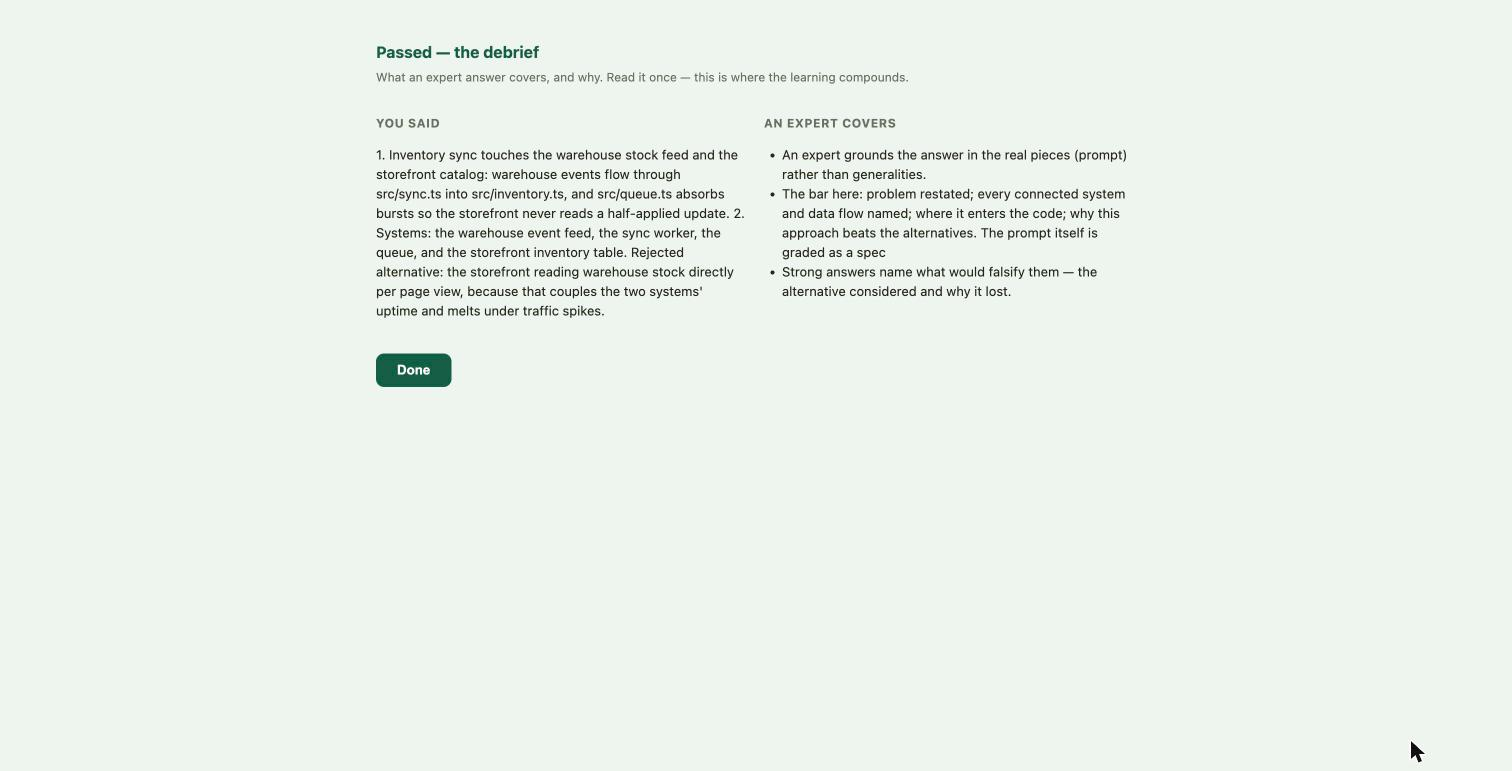
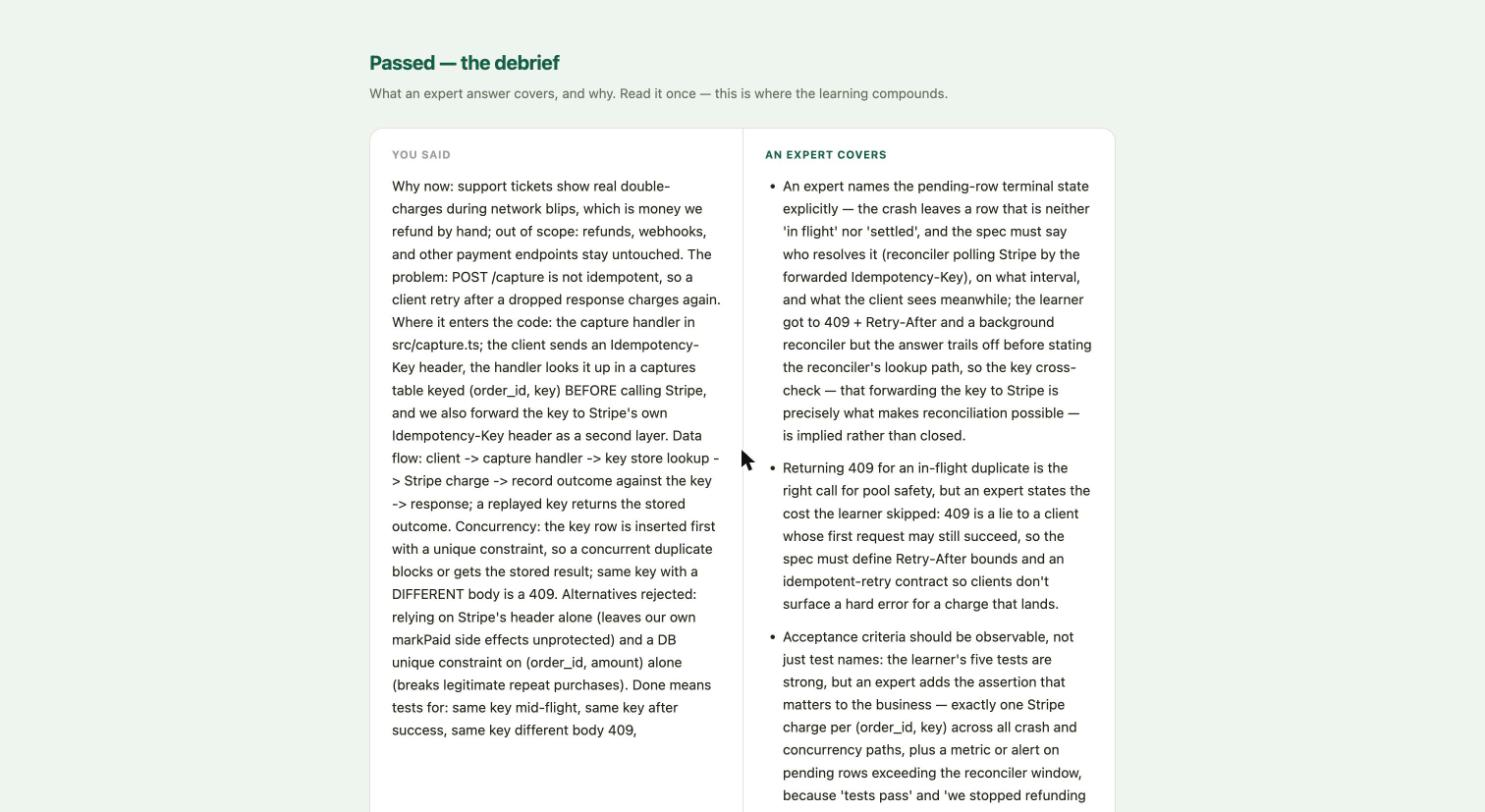
Landing: current UI screenshots (two-door gate, teaching study room, interviewer round, Today with practice floor, readiness panel)

diff --git a/index.html b/index.html
@@ -570,8 +570,9 @@
     <div class="stage-head"><span class="n">✓</span><h2>This is the real app, running</h2></div>
     <p class="note">Not mockups: a live session, captured today. The gap map and difficulty bars above ship next.</p>
     <div class="shotgrid">
-      <div class="shot"><figure><img src="real-gate.jpg" alt="The lock window holding a prompt: Context gate, sizing rationale, scaffold, closed-book answer box, with Not sure — study first and Check understanding in the footer" loading="lazy"><figcaption><b>The gate, live.</b> A real prompt held, sized with a visible rationale; paste is off; two doors — check your understanding, or admit you’re not sure and study first.</figcaption></figure></div>
-      <div class="shot"><figure><img src="real-study.jpg" alt="The study room: a lesson written from the actual work — at-least-once delivery, idempotency keys — with a "what you need to know" summary, a lesson from the actual work, a tutor — and no answer box in sight" loading="lazy"><figcaption><b>Not sure? The study room.</b> Its own page — a lesson written from your actual work, a tutor that never answers the gate, and no answer box to copy into. No grade spent, no fee.</figcaption></figure></div>
+      <div class="shot"><figure><img src="real-gate.jpg" alt="The lock window holding a prompt: Context gate, sizing rationale, scaffold, closed-book answer box, with Not sure — study first and Check understanding in the footer" loading="lazy"><figcaption><b>The gate, live.</b> A real payment-capture prompt held, sized with a visible rationale; paste is off; two doors — check your understanding, or admit you’re not sure and study first.</figcaption></figure></div>
+      <div class="shot"><figure><img src="real-study.jpg" alt="The study room: a lesson written from the actual work — at-least-once delivery, idempotency keys — with a "what you need to know" summary, a lesson from the actual work, a tutor — and no answer box in sight" loading="lazy"><figcaption><b>The study room teaches.</b> “What you need to know” in five claims, then a lesson aimed at the concepts, data model, contract, and decision this work turns on — flow pictures included, no timer, no answer box to copy into.</figcaption></figure></div>
+      <div class="shot"><figure><img src="real-followup.jpg" alt="The interviewer pushes back: a live follow-up question before the pass" loading="lazy"><figcaption><b>The interviewer round.</b> A base pass isn’t a pass — one live pushback at your weakest point, defended in a few sentences, exactly like the real room.</figcaption></figure></div>
       <div class="shot"><figure><img src="real-debrief.jpg" alt="Passed, the debrief: what you said beside what an expert covers" loading="lazy"><figcaption><b>Passed, the debrief.</b> Your answer beside what an expert covers; then the prompt releases.</figcaption></figure></div>
       <div class="shot"><figure><img src="real-today.jpg" alt="Today: a declared task with countdown and gate chain, money at risk, gates waiting on you as clickable pills" loading="lazy"><figcaption><b>Today.</b> A live task with its countdown and gate chain, and the gates waiting on you.</figcaption></figure></div>
       <div class="shot"><figure><img src="real-settings.jpg" alt="Settings: per-gate rubrics, add-your-own requirements, depth controls" loading="lazy"><figcaption><b>Settings.</b> Every gate's bar is visible and extensible, built-ins can never be removed; loosening takes 48h.</figcaption></figure></div>
